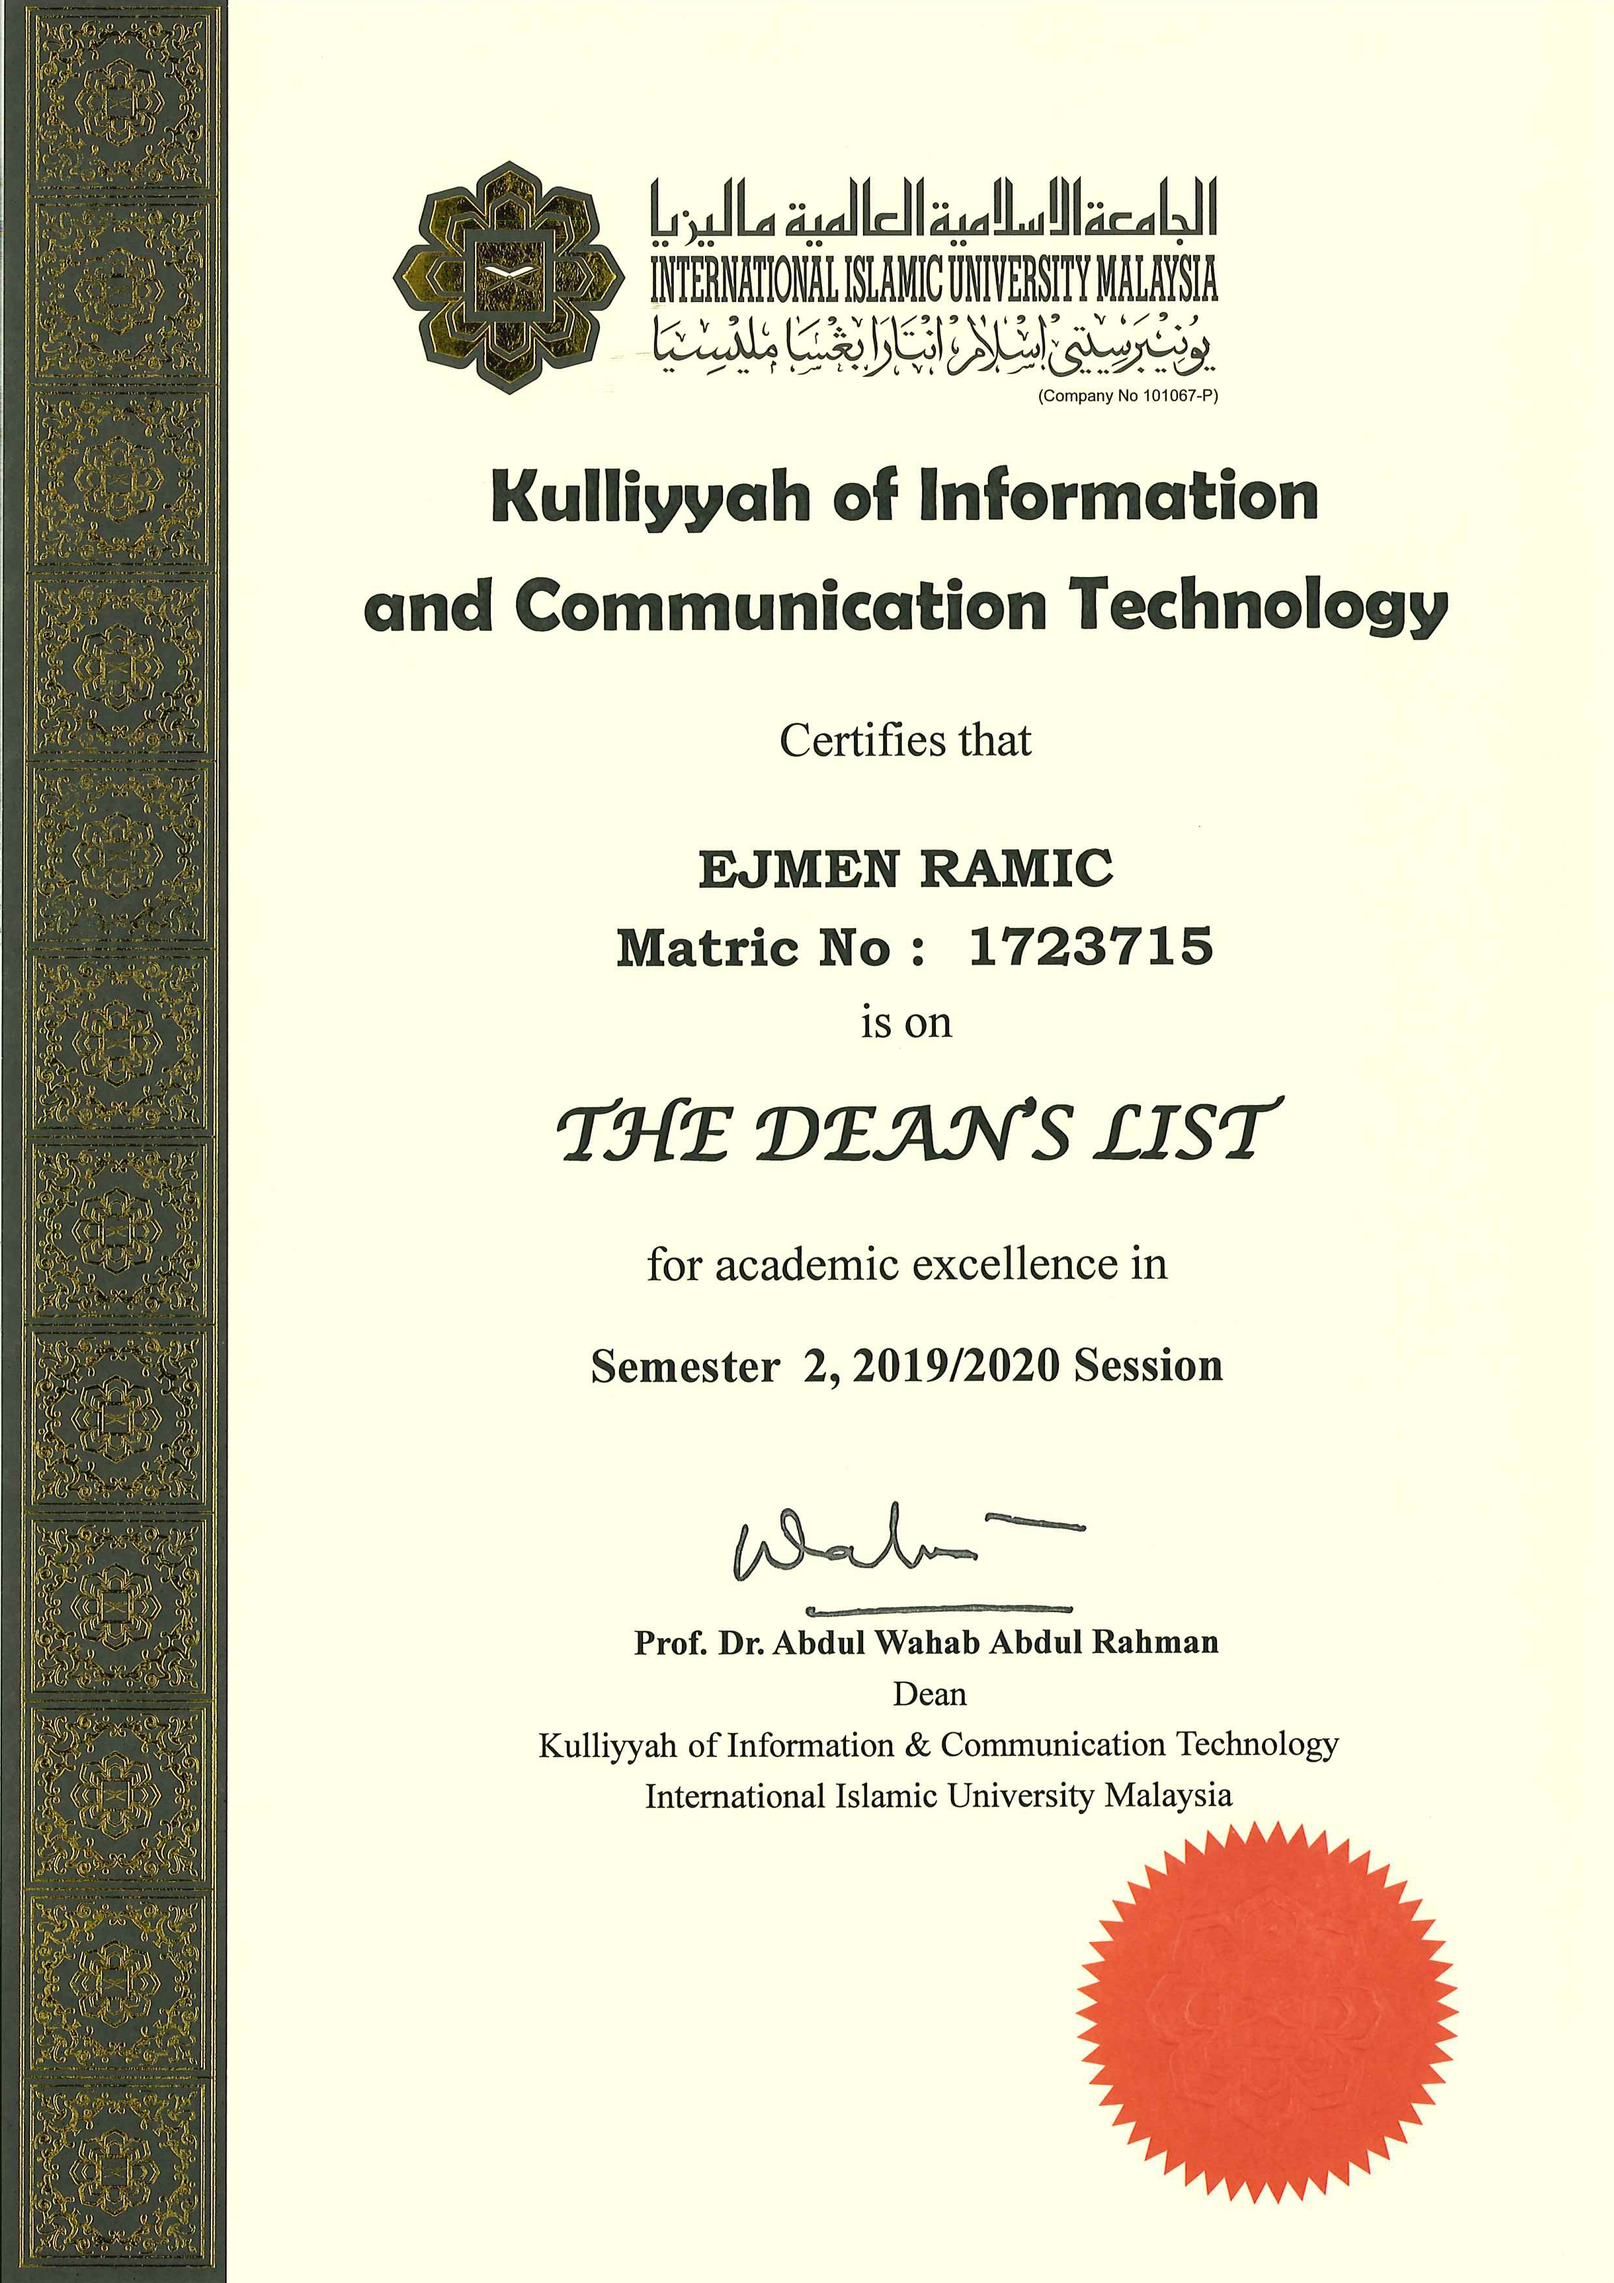
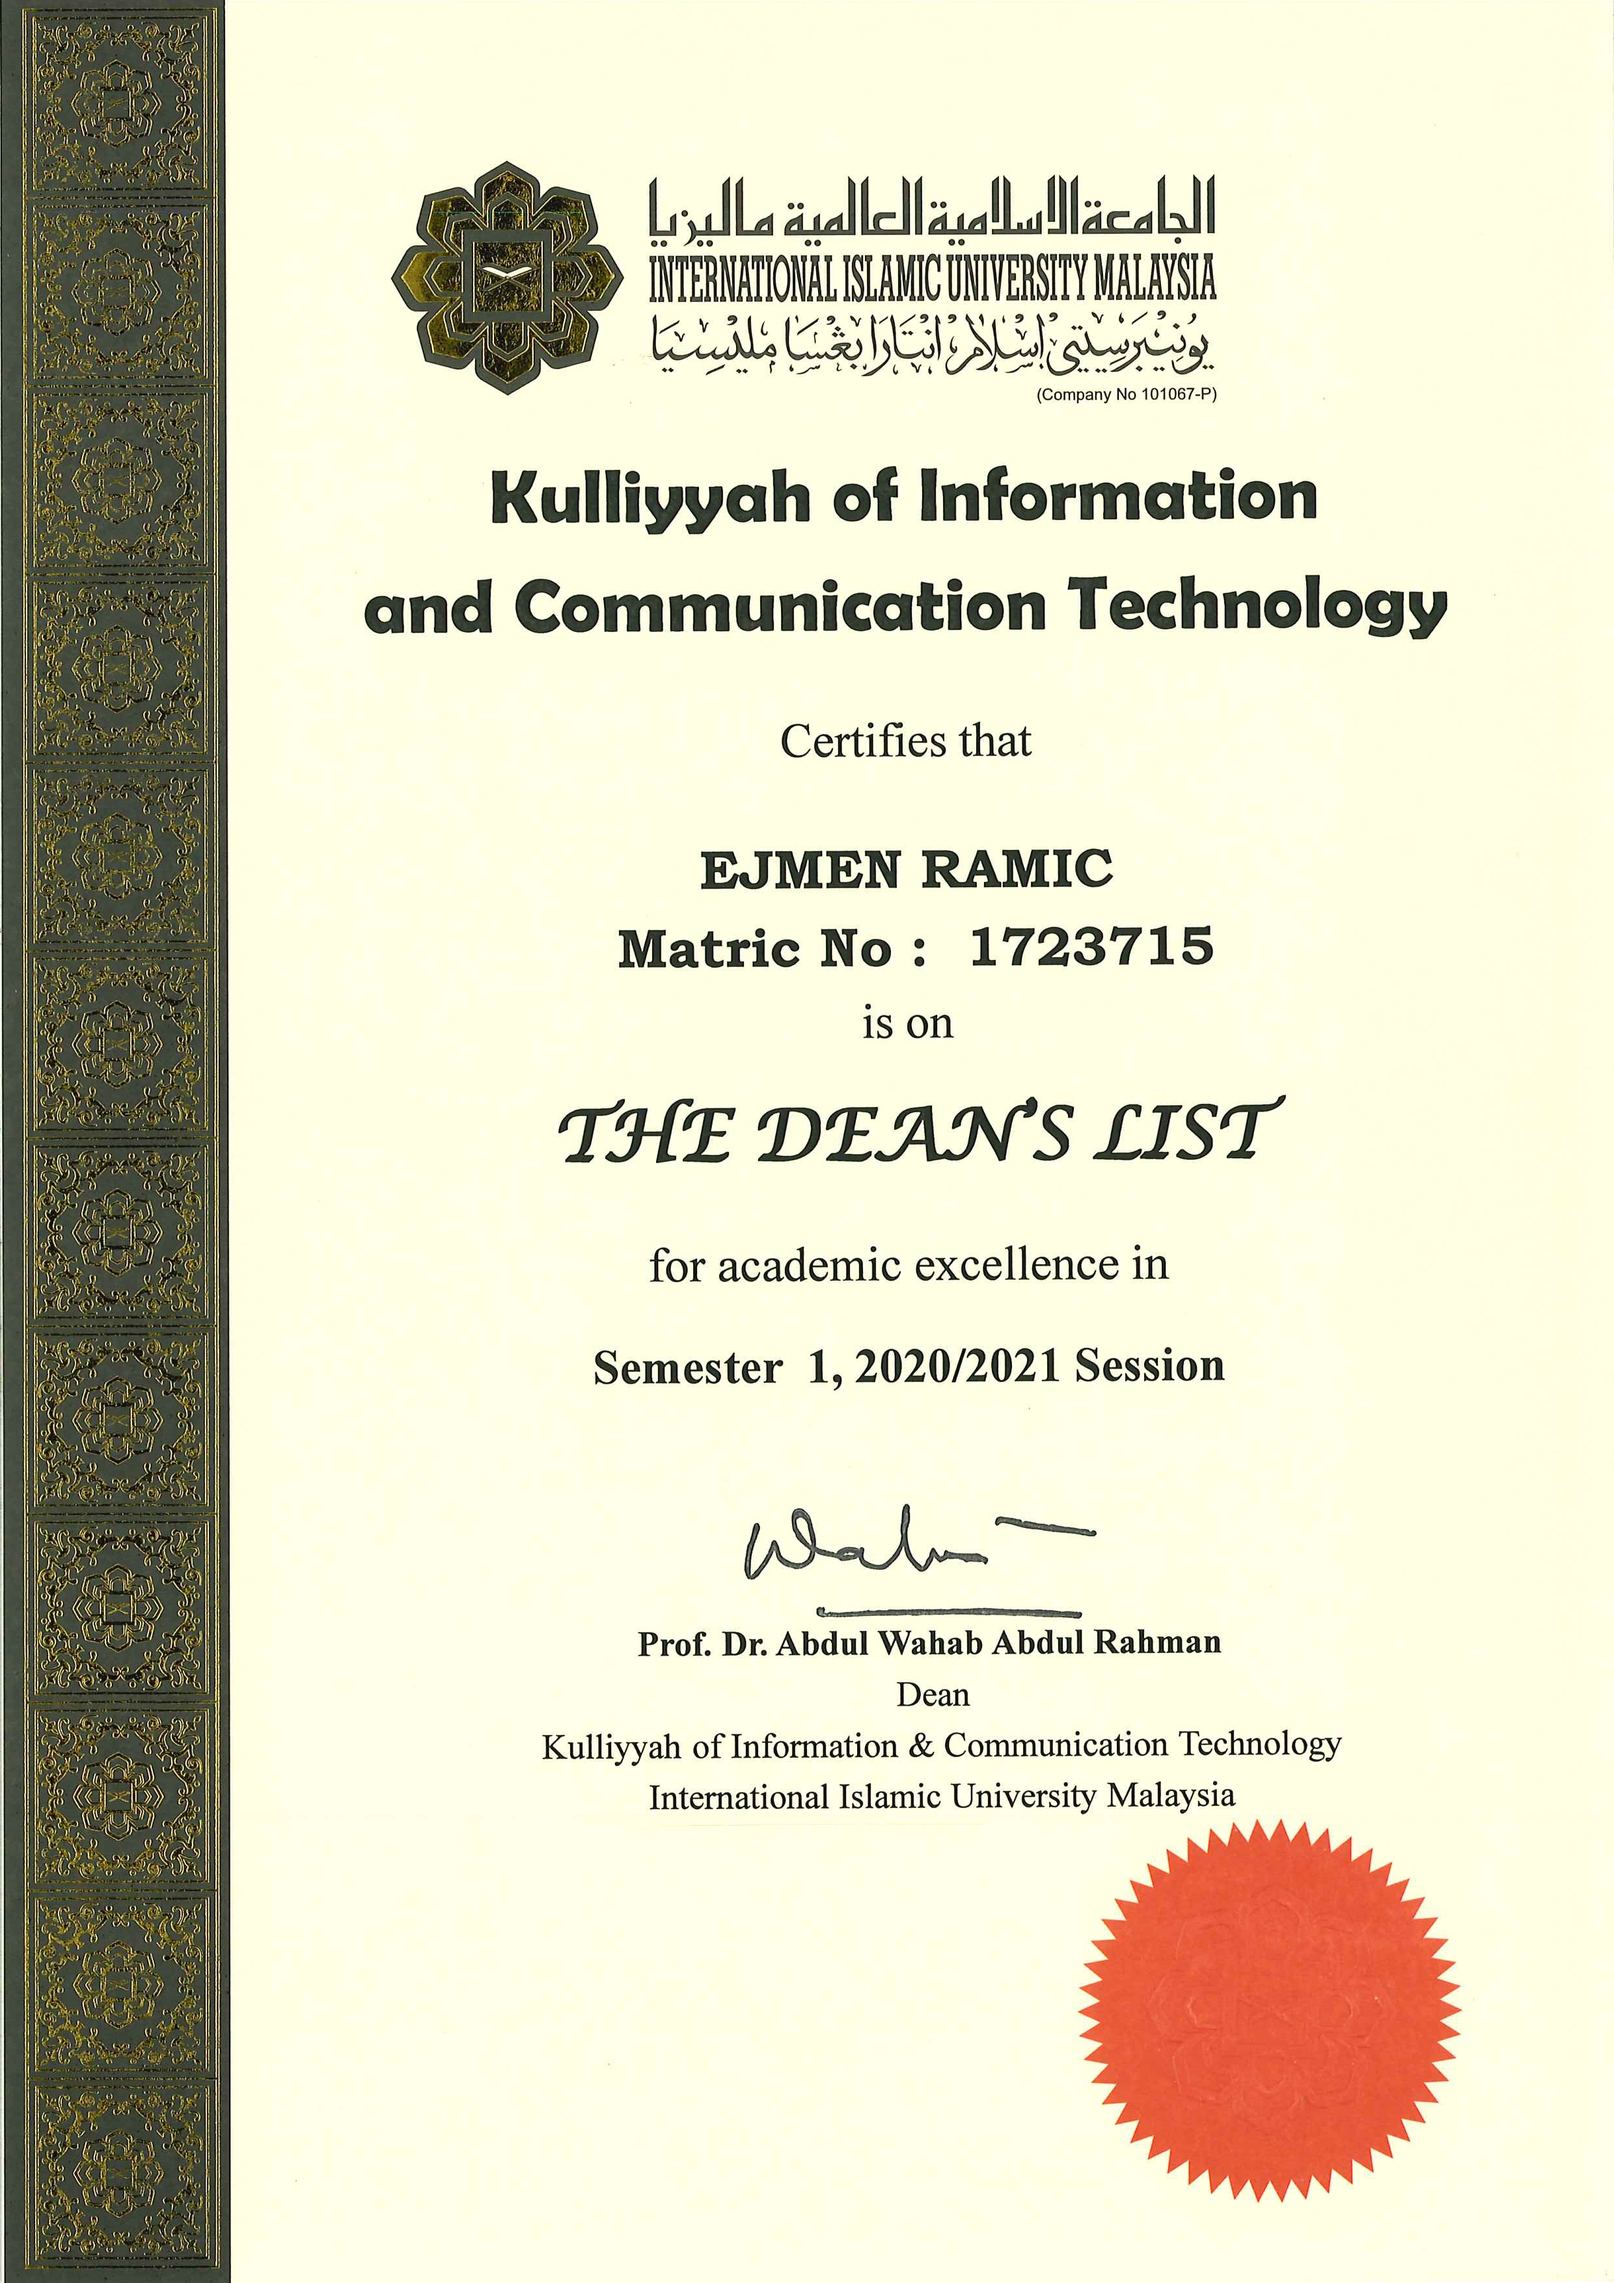
School achievement update

diff --git a/src/pages/Resume-Website/Home/FrequentQuestions/index.tsx b/src/pages/Resume-Website/Home/FrequentQuestions/index.tsx
@@ -17,8 +17,15 @@ const items: FAQItem[] = [
   },
   {
     title: '2. What are your greatest strengths and weaknesses?',
-    description:
-      "One of my greatest strengths is my ability to learn quickly and adapt to new technologies. For instance, I picked up Chakra UI on my own and have been able to integrate it seamlessly into my projects. On the flip side, a weakness of mine is that I can be a bit of a perfectionist. Sometimes I spend too much time tweaking small details. '’m working on balancing my attention to detail with efficiency.",
+    description: (
+      <Box>
+        One of my greatest strengths is my ability to learn quickly and adapt to new technologies. For instance, I
+        picked up Chakra UI on my own and have been able to integrate it seamlessly into my projects.
+        <br />
+        <br /> On the flip side, a weakness of mine is that I can be a bit of a perfectionist. Sometimes I spend too
+        much time tweaking small details. I'm working on balancing my attention to detail with efficiency.
+      </Box>
+    ),
   },
   {
     title: '3. Where do you see yourself in five years?',
@@ -52,8 +59,18 @@ const items: FAQItem[] = [
   },
   {
     title: '9. Can you walk me through a project you worked on?',
-    description:
-      'I worked on an e-commerce platform where we used React, TypeScript, and Chakra UI for the frontend, Next.js for the backend, MongoDB and Prisma for the database, and Playwright for writing tests. I implemented features like user authentication, product listings, and a checkout page. Using TypeScript, I ensured type safety and reduced bugs. We also used Chakra UI to create a cohesive and responsive design, which made the site very user-friendly. Additionally, I collaborated closely with backend developers to integrate the frontend with the server-side logic seamlessly, resulting in a smooth and efficient user experience. The project was a great success, improving user engagement and increasing sales for the platform.',
+    description: (
+      <Box>
+        I worked on an e-commerce platform where we used React, TypeScript, and Chakra UI for the frontend, Next.js for
+        the backend, MongoDB and Prisma for the database, and Playwright for writing tests. I implemented features like
+        user authentication, product listings, and a checkout page. Using TypeScript, I ensured type safety and reduced
+        bugs. We also used Chakra UI to create a cohesive and responsive design, which made the site very user-friendly.
+        <br />
+        <br /> Additionally, I collaborated closely with backend developers to integrate the frontend with the
+        server-side logic seamlessly, resulting in a smooth and efficient user experience. The project was a great
+        success, improving user engagement and increasing sales for the platform.
+      </Box>
+    ),
   },
   {
     title: '10. Tell us about a time when you had to learn something new quickly.',

diff --git a/src/pages/Resume-Website/AboutMe/SchoolCertificates/index.tsx b/src/pages/Resume-Website/AboutMe/SchoolCertificates/index.tsx
@@ -1,6 +1,7 @@
 import {
   Box,
   chakra,
+  HStack,
   Stack,
   Step,
   StepDescription,
@@ -11,6 +12,7 @@ import {
   StepSeparator,
   StepStatus,
   StepTitle,
+  useBreakpointValue,
   useSteps,
   VStack,
 } from '@chakra-ui/react'
@@ -22,22 +24,56 @@ const SchoolCertificates = () => {
     count: steps.length,
   })
 
+  const handleStepClick = (index: number) => {
+    setActiveStep(index === activeStep ? -1 : index)
+  }
+
+  const breakpoint = useBreakpointValue({ base: 'base', md: 'md', lg: 'lg' })
+
+  const getStepHeight = () => {
+    if (breakpoint === 'base') {
+      return '700px'
+    }
+    if (breakpoint === 'md') {
+      return '600px'
+    }
+    if (breakpoint === 'lg') {
+      return '800px'
+    }
+    return '400px'
+  }
+
   return (
-    <VStack w={'full'}>
-      <chakra.h3 fontSize={'36px'} fontWeight={'bold'} mb={'42px'} textAlign={'start'}>
+    <VStack w={'full'} px={{ md: '100px', lg: '25%' }}>
+      <chakra.h3 fontSize={'36px'} fontWeight={'bold'} mb={{ base: '35px', md: '42px' }} textAlign={'center'}>
         School Achievements
       </chakra.h3>
-      <Stack alignItems={'start'} w={'full'}>
-        <Stepper size={'lg'} index={activeStep} orientation={'vertical'} height={'400px'} gap='0'>
+      <Stack alignItems={'start'} w={'full'} mb={{ md: '50px' }}>
+        <Stepper size={'lg'} index={activeStep} orientation={'vertical'} height={getStepHeight()} gap={'0'}>
           {steps.map((step, index) => (
-            <Step key={index} onClick={() => setActiveStep(index)}>
+            <Step key={index} onClick={() => handleStepClick(index)}>
               <StepIndicator>
                 <StepStatus complete={<StepIcon />} incomplete={<StepNumber />} active={<StepNumber />} />
               </StepIndicator>
 
-              <Box flexShrink='0'>
+              <Box flexShrink={'0'} style={{ paddingBottom: '50px' }}>
                 <StepTitle>{step.title}</StepTitle>
-                <StepDescription>{step.description}</StepDescription>
+                <HStack w={'full'}>
+                  <StepDescription>{step.description}</StepDescription>
+                </HStack>
+                {activeStep === index && step.image && (
+                  <Box
+                    w={{ base: '260px', md: '400px', lg: '550px' }}
+                    h={{ lg: '750px' }}
+                    ml={{ lg: '100px' }}
+                    mt={'10px'}
+                    mb={'10px'}
+                    as={'img'}
+                    src={step.image}
+                    alt={step.title}
+                    boxShadow={'md'}
+                  />
+                )}
               </Box>
 
               <StepSeparator />
@@ -45,6 +81,7 @@ const SchoolCertificates = () => {
           ))}
         </Stepper>
       </Stack>
+      <Box h={{ md: '200px' }} />
     </VStack>
   )
 }

diff --git a/src/pages/Resume-Website/AboutMe/SchoolCertificates/items.tsx b/src/pages/Resume-Website/AboutMe/SchoolCertificates/items.tsx
@@ -7,17 +7,18 @@ export type stepsItems = {
 export const steps: stepsItems[] = [
   {
     title: 'Deans List',
-    description: 'Semester ',
-    image: '',
+    description: 'Semester 1, 2019/2020',
+    image: './Website/Resume/AboutMe/deans-list-1.jpg',
   },
   {
-    title: 'First',
-    description: 'Contact Info',
-    image: '',
+    title: 'Deans List',
+    description: 'Semester 1, 2020/2021',
+    image: './Website/Resume/AboutMe/deans-list-2.jpg',
   },
+
   {
-    title: 'First',
-    description: 'Contact Info',
+    title: "Bachelor's Diploma",
+    description: 'Information and Communication Technology',
     image: '',
   },
   {

diff --git a/src/pages/Resume-Website/Resume/LeftSide/SkillsResume/ToolsTable/index.tsx b/src/pages/Resume-Website/Resume/LeftSide/SkillsResume/ToolsTable/index.tsx
@@ -32,6 +32,10 @@ const getItems = () => {
       level: ['Novice', 'Beginner', 'Intermediate', 'Proficient', 'Advanced'],
     },
     {
+      name: 'Wordpress',
+      level: ['Novice', 'Beginner', 'Intermediate', 'Proficient', 'Advanced'],
+    },
+    {
       name: 'MongoDB',
       level: ['Novice', 'Beginner', 'Intermediate'],
     },
